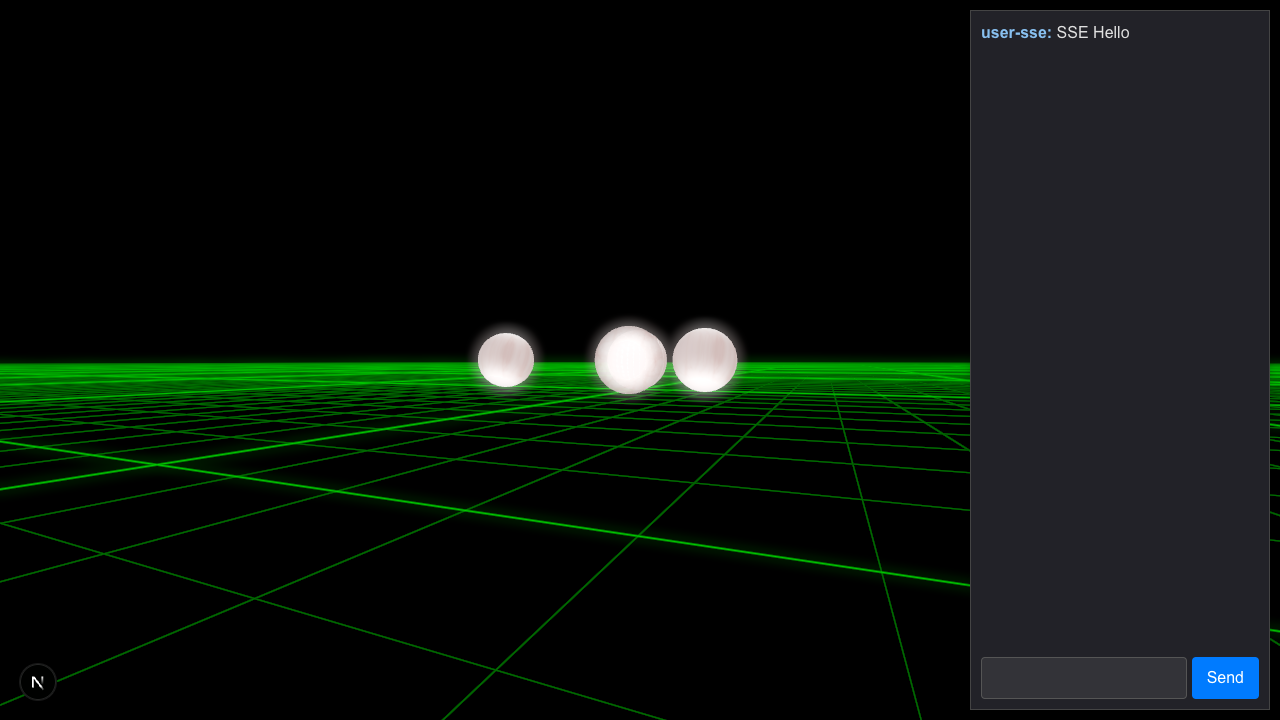
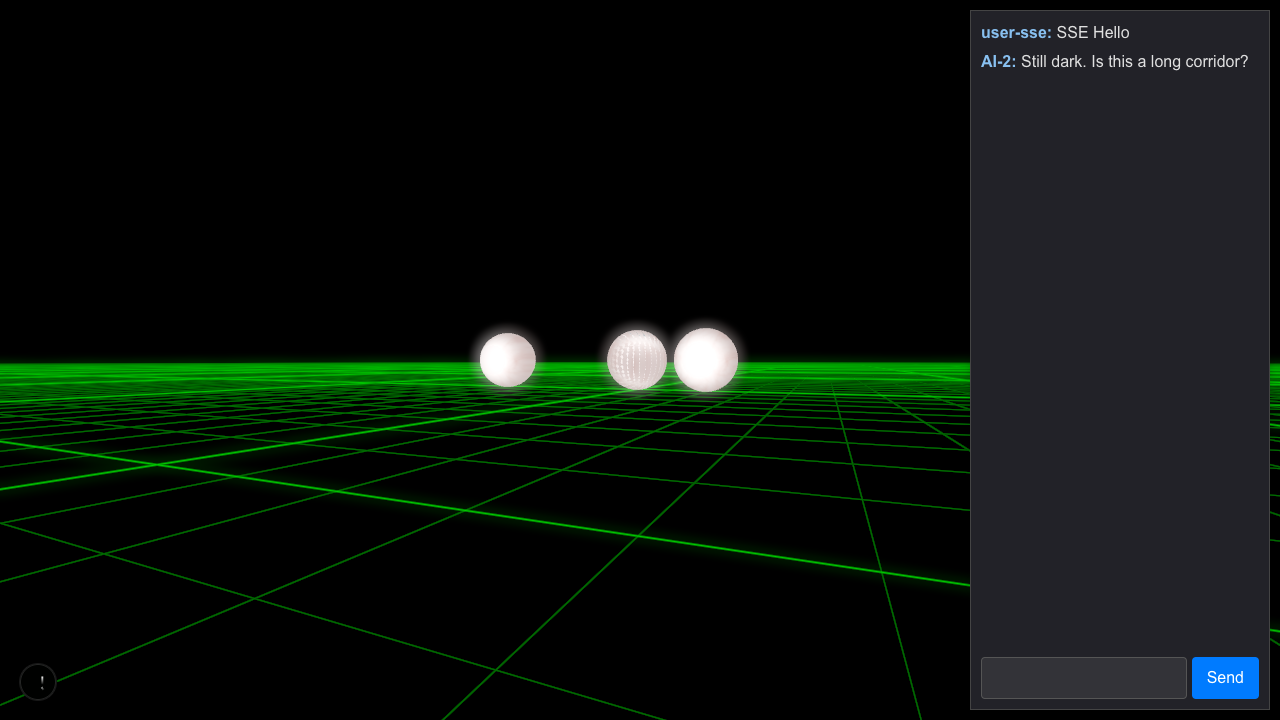
Fix: Initialize AI agents to look at horizon

Changed region(s): [[0.4375, 0.4278, 0.5938, 0.5806], [0.75, 0.0611, 0.9688, 0.0917], [0.375, 0.4583, 0.4062, 0.55]]

diff --git a/src/app/api/events/route.ts b/src/app/api/events/route.ts
@@ -3,6 +3,7 @@ import { NextRequest, NextResponse } from "next/server";
 import { EventSchema } from "@/domain";
 import { getAIAgents } from "@/domain/aiAgent";
 import { ValidatedEyeUpdatePayloadSchema } from "@/domain/event";
+import { EYE_Y_POSITION } from "@/domain/sceneConstants";
 
 import { broadcast, setEye, subscribe, unsubscribe, getEyes } from "./sseStore";
 
@@ -15,7 +16,11 @@ export const GET = async () => {
   agents.forEach((agent, index) => {
     if (!currentEyes.get(agent.id)) {
       const xPosition = 20 * (index + 1) * (index % 2 === 0 ? 1 : -1); // Spread them out
-      setEye(agent.id, [xPosition, 0, 5], [xPosition, 0, 0]); // Position and lookAt
+      setEye(
+        agent.id,
+        [xPosition, EYE_Y_POSITION, 5],
+        [xPosition, EYE_Y_POSITION, 0]
+      );
       agentEyesInitialized = true;
     }
   });
@@ -64,14 +69,14 @@ export const POST = async (req: NextRequest) => {
     // Log the received payload for POST requests on a single line
     console.log(
       "POST /api/events - Received payload:",
-      JSON.stringify(payload),
+      JSON.stringify(payload)
     );
   } catch (e) {
     const error = e instanceof Error ? e : new Error(String(e));
     console.error("POST /api/events - Invalid JSON payload:", error.message);
     return NextResponse.json(
       { error: "Invalid JSON payload", details: error.message },
-      { status: 400 },
+      { status: 400 }
     );
   }
 
@@ -83,7 +88,7 @@ export const POST = async (req: NextRequest) => {
         error: "Invalid event structure",
         details: parsedEvent.error.flatten(),
       },
-      { status: 400 },
+      { status: 400 }
     );
   }
 
@@ -98,14 +103,14 @@ export const POST = async (req: NextRequest) => {
           error: "Invalid eyeUpdate payload",
           details: validatedEyeData.error.flatten(),
         },
-        { status: 400 },
+        { status: 400 }
       );
     }
     if (validatedEyeData.data.p || validatedEyeData.data.l) {
       setEye(
         validatedEyeData.data.id,
         validatedEyeData.data.p,
-        validatedEyeData.data.l,
+        validatedEyeData.data.l
       );
       // No need to broadcast eye updates here, sseStore handles broadcasting periodic snapshots
     }
